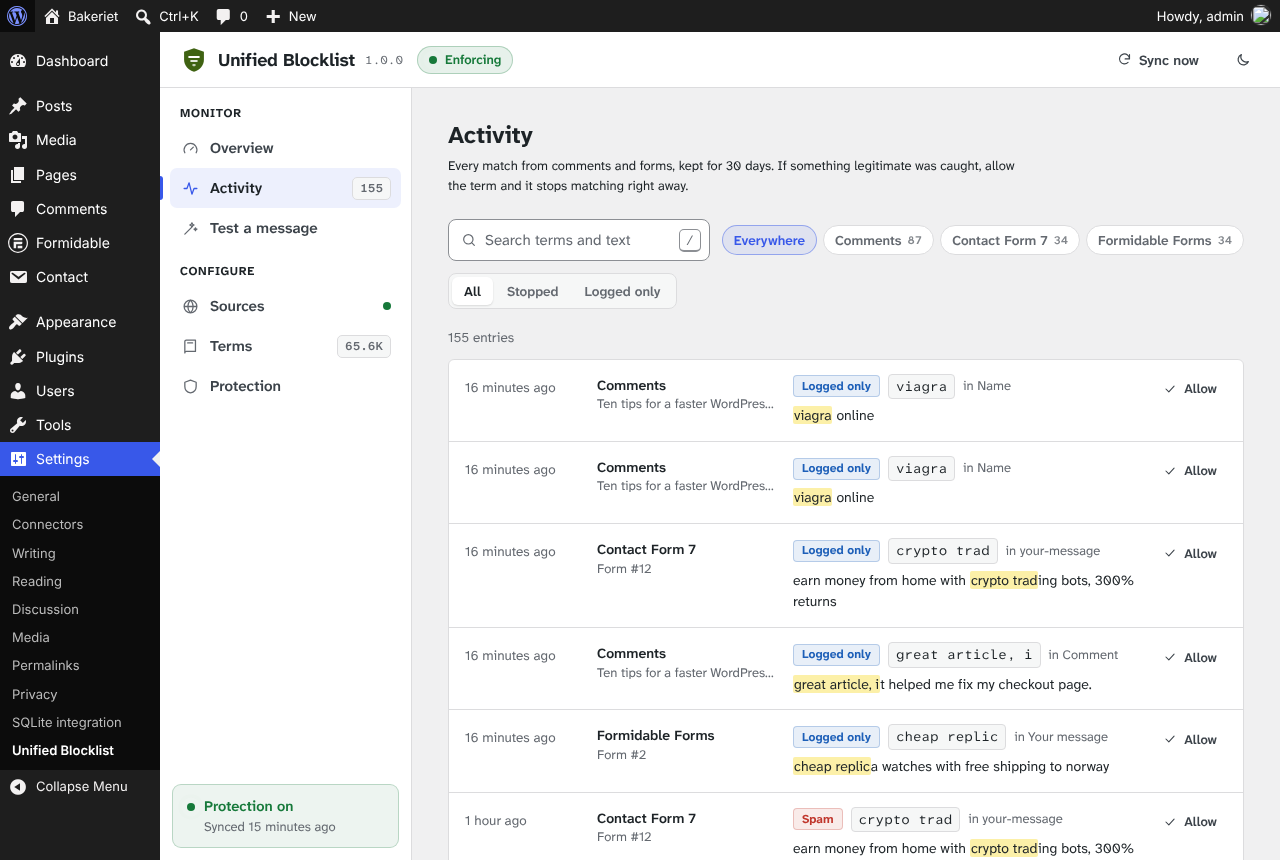
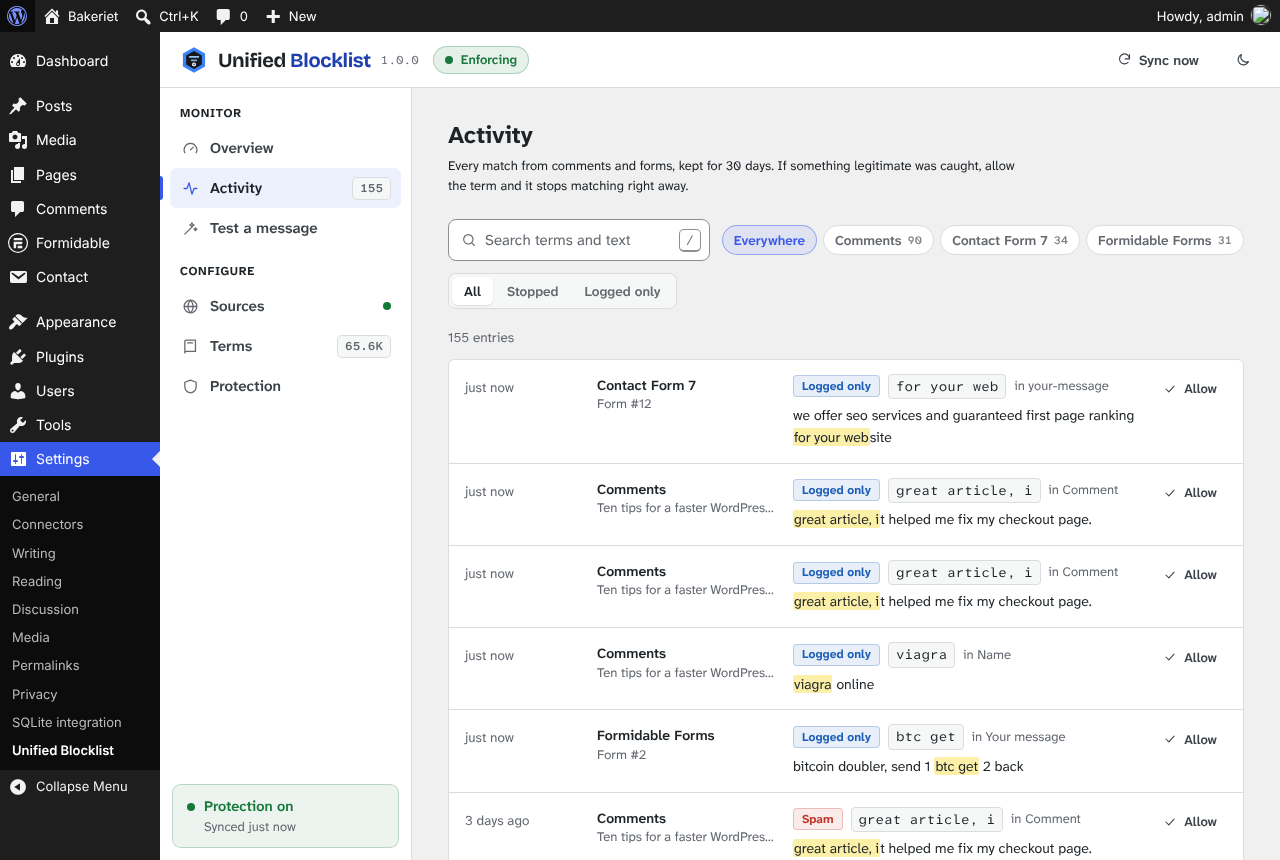
Adopt the CC Software look shared with Routemark
- Hex-well mark with a funnel, two-tone wordmark in Bricolage Grotesque
- CC Software blues in the dark theme, #2563eb primary button
- Author CC Software, links to the ClearanceClarence-Software organization
- New icon, banners with "by CC Software", fresh screenshots
- Brand section and CI badge in the README

diff --git a/app/admin.scss b/app/admin.scss
@@ -1,5 +1,5 @@
 // Unified Blocklist admin styles.
-// Built on the Restbench design system: same tokens, fonts, controls and dark theme,
+// Built on the Routemark design system: same tokens, fonts, controls and dark theme,
 // so the two plugins feel like siblings. Everything is scoped under .ub.
 
 // Take over the content area on our screen only
@@ -26,7 +26,7 @@
 	}
 }
 
-// Tokens (identical values to Restbench)
+// Tokens (identical values to Routemark)
 
 .ub {
 	--ub-sans: "Atkinson Hyperlegible Next", "Segoe UI", system-ui, sans-serif;
@@ -56,8 +56,8 @@
 	--ub-primary: var(--wp-color);
 	--ub-primary-hover: var(--wp-color-dark);
 	--ub-on-primary: #ffffff;
-	--ub-mark: #3f6212;
-	--ub-mark-cut: #ffffff;
+	// the "Blocklist" half of the wordmark
+	--ub-brand-word: #1e40af;
 
 	--ub-ok: #16793a;
 	--ub-info: #1d5fb8;
@@ -87,16 +87,16 @@
 	--ub-text-2: #b9bec7;
 	--ub-text-3: #838994;
 
-	--ub-accent: #c3ec6a;
-	--ub-accent-strong: #d4f58c;
-	--ub-on-accent: #14190a;
-	--ub-accent-soft: rgba(195, 236, 106, 0.12);
+	// CC Software blues
+	--ub-accent: #93c5fd;
+	--ub-accent-strong: #bfdbfe;
+	--ub-on-accent: #0b1530;
+	--ub-accent-soft: rgba(147, 197, 253, 0.14);
 
-	--ub-primary: #c3ec6a;
-	--ub-primary-hover: #d4f58c;
-	--ub-on-primary: #14190a;
-	--ub-mark: #c3ec6a;
-	--ub-mark-cut: #16181b;
+	--ub-primary: #2563eb;
+	--ub-primary-hover: #1d4ed8;
+	--ub-on-primary: #ffffff;
+	--ub-brand-word: #93c5fd;
 
 	--ub-ok: #5fdc8c;
 	--ub-info: #6cb4ff;
@@ -636,18 +636,22 @@
 	gap: 10px;
 }
 
-.ub-mark-shield {
-	fill: var(--ub-mark);
+.ub-mark {
+	flex: none;
 }
 
-.ub-mark-line {
-	fill: var(--ub-mark-cut);
-}
-
+// logo + wordmark (Bricolage Grotesque is only used here), as in Routemark
 .ub-brand-name {
-	font-size: 18px;
+	font-family: "Bricolage Grotesque", var(--ub-sans);
+	font-size: 20px;
 	font-weight: 700;
-	letter-spacing: -0.01em;
+	line-height: 1;
+	letter-spacing: -0.02em;
+
+	em {
+		font-style: normal;
+		color: var(--ub-brand-word);
+	}
 	white-space: nowrap;
 }
 
@@ -1301,7 +1305,7 @@
 	margin-top: 14px;
 }
 
-// Settings rows (same as Restbench)
+// Settings rows (same as Routemark)
 
 .ub-setting {
 	display: flex;

diff --git a/app/components/ui.tsx b/app/components/ui.tsx
@@ -4,7 +4,7 @@ import type { ReactNode } from 'react';
 
 import { useArmed } from '../lib/hooks';
 
-// Same icon set and stroke style as Restbench, plus a few for this plugin.
+// Same icon set and stroke style as Routemark, plus a few for this plugin.
 const PATHS = {
 	search: 'M11 4a7 7 0 1 0 0 14 7 7 0 0 0 0-14Zm9 16-4.35-4.35',
 	chevron: 'm9 6 6 6-6 6',
@@ -55,7 +55,8 @@ export function Icon( { name, size = 16 }: { name: IconName; size?: number } ) {
 	);
 }
 
-// Logo: a shield with a funnel cut into it. Fills come from CSS, so it follows the theme.
+// Logo: the CC Software hex well (as in Routemark) with a funnel inside, narrowing many
+// terms down to one marker. The well is always graphite, so the mark works on light and dark.
 export function Mark( { size = 24 }: { size?: number } ) {
 	return (
 		<svg
@@ -66,36 +67,23 @@ export function Mark( { size = 24 }: { size?: number } ) {
 			aria-hidden="true"
 			focusable="false"
 		>
+			<path d="M24 2 43.05 13v22L24 46 4.95 35V13z" fill="#3b82f6" />
 			<path
-				className="ub-mark-shield"
-				d="M24 4 41 10v13c0 10.2-7 18.2-17 21-10-2.8-17-10.8-17-21V10L24 4Z"
+				d="M24 8.5 37.42 16.25v15.5L24 39.5 10.58 31.75v-15.5z"
+				fill="#16181b"
 			/>
+			<rect x="15" y="17" width="18" height="3" rx="1.5" fill="#93c5fd" />
 			<rect
-				className="ub-mark-line"
-				x="14"
-				y="17"
-				width="20"
-				height="3.5"
-				rx="1.75"
-			/>
-			<rect
-				className="ub-mark-line"
-				x="17.5"
-				y="24"
-				width="13"
-				height="3.5"
-				rx="1.75"
+				x="18.5"
+				y="23"
+				width="11"
+				height="3"
+				rx="1.5"
+				fill="#93c5fd"
 				opacity="0.85"
 			/>
-			<rect
-				className="ub-mark-line"
-				x="21"
-				y="31"
-				width="6"
-				height="3.5"
-				rx="1.75"
-				opacity="0.7"
-			/>
+			<circle cx="24" cy="31.5" r="3.4" fill="#ffffff" />
+			<circle cx="24" cy="31.5" r="1.4" fill="#1e40af" />
 		</svg>
 	);
 }

diff --git a/app/index.tsx b/app/index.tsx
@@ -1,6 +1,8 @@
 import { createRoot } from '@wordpress/element';
 
-// Fonts are bundled so wp-admin never calls out to Google Fonts. Same faces as Restbench.
+// Fonts are bundled so wp-admin never calls out to Google Fonts. Same faces as Routemark:
+// Bricolage Grotesque for the wordmark only, Atkinson Hyperlegible for everything else.
+import '@fontsource/bricolage-grotesque/latin-700.css';
 import '@fontsource/atkinson-hyperlegible-next/latin-400.css';
 import '@fontsource/atkinson-hyperlegible-next/latin-600.css';
 import '@fontsource/atkinson-hyperlegible-next/latin-700.css';

diff --git a/app/App.tsx b/app/App.tsx
@@ -87,7 +87,9 @@ function Shell( { view, boot }: { view: View; boot: Boot } ) {
 					title={ __( 'Overview', 'unified-blocklist' ) }
 				>
 					<Mark size={ 28 } />
-					<span className="ub-brand-name">Unified Blocklist</span>
+					<span className="ub-brand-name">
+						Unified{ ' ' }<em>Blocklist</em>
+					</span>
 					<span className="ub-brand-version">{ boot.version }</span>
 				</button>
 

diff --git a/unified-blocklist.php b/unified-blocklist.php
@@ -1,13 +1,13 @@
 <?php
 /**
  * Plugin Name:       Unified Blocklist
- * Plugin URI:        https://github.com/ClearanceClarence/Unified-Blocklist
+ * Plugin URI:        https://github.com/ClearanceClarence-Software/Unified-Blocklist
  * Description:       One blocklist for comments and forms. Syncs community spam lists, merges your own terms and exceptions, and logs every block so false positives are visible.
  * Version:           1.0.0
  * Requires at least: 6.4
  * Requires PHP:      7.4
- * Author:            ClearanceClarence
- * Author URI:        https://github.com/ClearanceClarence
+ * Author:            CC Software
+ * Author URI:        https://github.com/ClearanceClarence-Software
  * License:           GPL-2.0-or-later
  * License URI:       https://www.gnu.org/licenses/gpl-2.0.html
  * Text Domain:       unified-blocklist

diff --git a/src/Rest.php b/src/Rest.php
@@ -231,7 +231,7 @@ final class Rest {
 	}
 
 	/**
-	 * The current user's theme. A preference, so it is per user like in Restbench.
+	 * The current user's theme. A preference, so it is per user like in Routemark.
 	 *
 	 * @return string
 	 */

diff --git a/README.md b/README.md
@@ -1,5 +1,9 @@
 <p align="center">
-  <img src=".wordpress-org/banner-1544x500.png" alt="Unified Blocklist: one blocklist for comments and forms" width="772">
+  <img src=".wordpress-org/banner-1544x500.png" alt="Unified Blocklist: one blocklist for comments and forms, by CC Software" width="772">
+</p>
+
+<p align="center">
+  <a href="https://github.com/ClearanceClarence-Software/Unified-Blocklist/actions/workflows/ci.yml"><img src="https://github.com/ClearanceClarence-Software/Unified-Blocklist/actions/workflows/ci.yml/badge.svg" alt="CI"></a>
 </p>
 
 Unified Blocklist is a WordPress plugin that keeps one list of blocked terms and applies it to comments and to the form plugins people actually use: Contact Form 7, Gravity Forms, WPForms and Formidable Forms. The list is built from community spam lists that update on a schedule, your own terms, and the terms you already keep in Settings › Discussion. Every match is logged with the text around it, and a term that catches something legitimate is one click away from being allowed.
@@ -89,7 +93,7 @@ If the site ran Dynamic Blacklist Updater, the Overview shows a cleanup card. It
 
 ## Install
 
-1. Download `unified-blocklist-<version>.zip` from the [latest release](https://github.com/ClearanceClarence/Unified-Blocklist/releases).
+1. Download `unified-blocklist-<version>.zip` from the [latest release](https://github.com/ClearanceClarence-Software/Unified-Blocklist/releases).
 2. In wp-admin, go to Plugins › Add New › Upload Plugin and upload the zip.
 3. Activate it, open **Settings › Unified Blocklist**, and click **Add the community list** (or enter your own list URLs and terms). The download starts right away.
 
@@ -117,7 +121,7 @@ All settings live in **Settings › Unified Blocklist**.
 | Protection | Keep log entries for | 7 to 365 days. | 30 days |
 | Protection | Store an excerpt with each match | Turn off if submissions may contain personal data you do not want kept. | On |
 
-The light or dark theme is a per-user preference, like in Restbench.
+The light or dark theme is a per-user preference, like in Routemark.
 
 ## For agencies and developers
 
@@ -218,7 +222,7 @@ Keyword lists catch known spam phrases and domains. They do not catch everything
 
 ## Development
 
-The admin screen is a React app built with `@wordpress/scripts`, the same setup and design system as [Restbench](https://github.com/ClearanceClarence/restbench). The PHP engine in `src/` works without it; the app only talks to the REST API.
+The admin screen is a React app built with `@wordpress/scripts`, the same setup and design system as [Routemark](https://github.com/ClearanceClarence-Software/Routemark). The PHP engine in `src/` works without it; the app only talks to the REST API.
 
 ```bash
 npm install
@@ -240,9 +244,28 @@ PHP follows the WordPress Coding Standards; `phpcs.xml.dist` is included.
 
 The GitHub workflow typechecks, lints, builds, and attaches the plugin zip to every push.
 
+### Brand
+
+<img src=".wordpress-org/icon-128x128.png" alt="Unified Blocklist icon" width="64" align="right">
+
+Unified Blocklist is a CC Software plugin, so it shares the CC Software look with [Routemark](https://github.com/ClearanceClarence-Software/Routemark). The name is two words. In the wordmark, "Unified" is in the text color and "Blocklist" is in blue.
+
+The mark is the CC Software hex well with a funnel inside it: two bars narrowing down to a single marker, many terms reduced to one decision. The well is always graphite, so the same mark works on light and dark backgrounds.
+
+| | |
+| --- | --- |
+| Blue `#3B82F6` | Outer hex |
+| Light blue `#93C5FD` | Funnel bars, "Blocklist" in the dark theme |
+| Dark blue `#1E40AF` | "Blocklist" on light backgrounds, marker center |
+| Graphite `#16181B` | Hex well, icon background, dark theme |
+
+The light theme has no palette of its own. It uses wp-admin's grays and the user's admin color scheme (`--wp-admin-theme-color`), so it looks like the rest of the dashboard. The dark theme uses the blues above, with `#2563EB` for the main button. Status colors (green for protection on, amber for Monitor only, red for errors) are the same in both.
+
+The wordmark is set in Bricolage Grotesque. Everything else uses Atkinson Hyperlegible Next and Mono, which keep `l`, `I` and `1` apart; that matters when you are reading spam terms that swap letters for digits. All three are bundled with the plugin under the OFL.
+
 ## Credits
 
-Unified Blocklist bundles the Atkinson Hyperlegible Next and Atkinson Hyperlegible Mono fonts (Copyright 2020–2024 The Atkinson Hyperlegible Next / Mono Project Authors), licensed under the SIL Open Font License 1.1. The license text is in `licenses/`. The fonts are served from the plugin folder, not from Google.
+Unified Blocklist bundles the Bricolage Grotesque, Atkinson Hyperlegible Next and Atkinson Hyperlegible Mono fonts, all licensed under the SIL Open Font License 1.1. The license text is in `licenses/`. The fonts are served from the plugin folder, not from Google.
 
 The default list is the community-maintained [WordPress Comment Blacklist](https://github.com/splorp/wordpress-comment-blacklist) by Grant Hutchinson.
 
